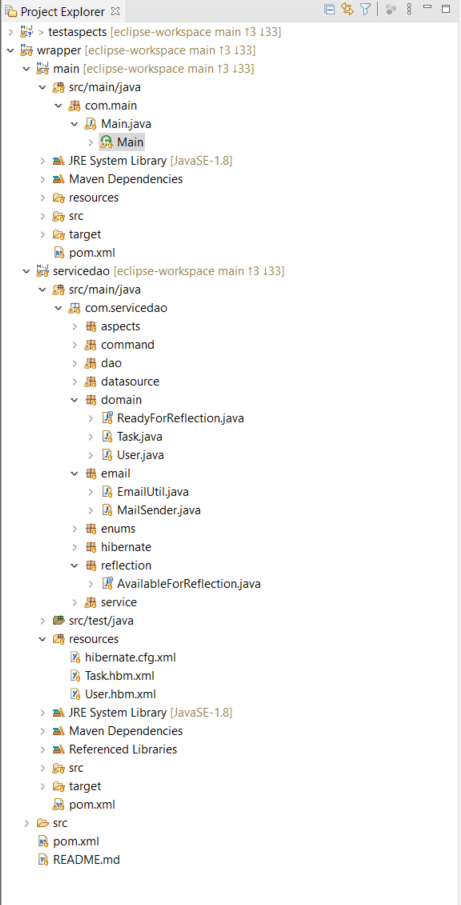
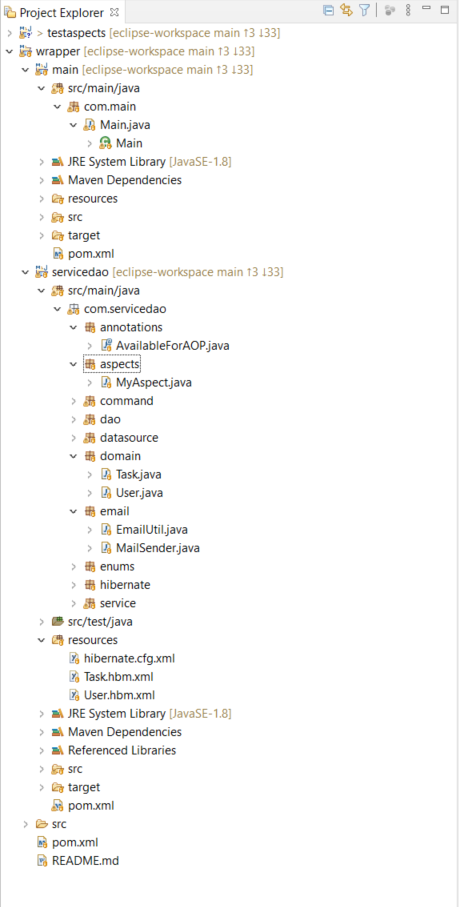
last adjustments...

diff --git a/servicedao/src/main/java/com/servicedao/dao/impl/MySQLUserDAOImpl.java b/servicedao/src/main/java/com/servicedao/dao/impl/MySQLUserDAOImpl.java
@@ -1,22 +1,14 @@
 package com.servicedao.dao.impl;
 
-import java.sql.Connection;
-import java.sql.PreparedStatement;
-import java.sql.ResultSet;
-import java.sql.SQLException;
-import java.sql.Statement;
-import java.util.HashSet;
 import java.util.List;
 import java.util.Set;
 import javax.persistence.Query;
 import org.apache.log4j.Logger;
 import org.hibernate.Session;
 import com.servicedao.dao.UserDAO;
-import com.servicedao.datasource.DataSource;
 import com.servicedao.domain.Task;
 import com.servicedao.domain.User;
 import com.servicedao.hibernate.SessionUtil;
-import com.servicedao.reflection.AvailableForReflection;
 
 public class MySQLUserDAOImpl extends SessionUtil implements UserDAO {
 	

diff --git a/main/src/main/java/com/main/Main.java b/main/src/main/java/com/main/Main.java
@@ -16,7 +16,7 @@ import com.servicedao.service.mysqlservice.MySQLUserService;
 
 public class Main {
 	
-	public static void main(String[] args) throws InstantiationException, IllegalAccessException, NoSuchFieldException, SecurityException, NoSuchMethodException, IllegalArgumentException, InvocationTargetException {
+	public static void main(String[] args) throws InstantiationException, IllegalAccessException, NoSuchFieldException, SecurityException, NoSuchMethodException, InvocationTargetException {
 
         BasicConfigurator.configure();
         

diff --git a/servicedao/src/main/java/com/servicedao/annotations/AvailableForAOP.java b/servicedao/src/main/java/com/servicedao/annotations/AvailableForAOP.java
@@ -1,4 +1,4 @@
-package com.servicedao.reflection;
+package com.servicedao.annotations;
 
 import java.lang.annotation.ElementType;
 import java.lang.annotation.Retention;
@@ -8,6 +8,6 @@ import java.lang.annotation.Target;
 
 @Target({ElementType.TYPE, ElementType.FIELD,ElementType.METHOD})
 @Retention(RetentionPolicy.RUNTIME)
-public @interface AvailableForReflection {
+public @interface AvailableForAOP {
 
 }

diff --git a/servicedao/src/main/java/com/servicedao/dao/impl/MySQLTaskDAOImpl.java b/servicedao/src/main/java/com/servicedao/dao/impl/MySQLTaskDAOImpl.java
@@ -1,12 +1,13 @@
 package com.servicedao.dao.impl;
 
 import java.util.List;
+
 import javax.persistence.Query;
+
 import org.apache.log4j.Logger;
 import org.hibernate.Session;
 import com.servicedao.dao.TaskDAO;
 import com.servicedao.domain.Task;
-import com.servicedao.domain.User;
 import com.servicedao.hibernate.SessionUtil;
 
 public class MySQLTaskDAOImpl extends SessionUtil implements TaskDAO {

diff --git a/servicedao/src/main/java/com/servicedao/email/MailSender.java b/servicedao/src/main/java/com/servicedao/email/MailSender.java
@@ -6,9 +6,9 @@ import javax.mail.Authenticator;
 import javax.mail.PasswordAuthentication;
 import javax.mail.Session;
 
-import com.servicedao.domain.ReadyForReflection;
+import com.servicedao.annotations.AvailableForAOP;
 
-@ReadyForReflection
+@AvailableForAOP
 public class MailSender {
 
 	final String fromEmail = "vizart.md@gmail.com";

diff --git a/servicedao/src/main/java/com/servicedao/domain/Task.java b/servicedao/src/main/java/com/servicedao/domain/Task.java
@@ -2,7 +2,9 @@ package com.servicedao.domain;
 
 import java.util.Objects;
 
-@ReadyForReflection
+import com.servicedao.annotations.AvailableForAOP;
+
+@AvailableForAOP
 public class Task { 
 	
 	private int userId;

diff --git a/servicedao/src/main/java/com/servicedao/domain/User.java b/servicedao/src/main/java/com/servicedao/domain/User.java
@@ -2,7 +2,9 @@ package com.servicedao.domain;
 
 import java.util.Set;
 
-@ReadyForReflection
+import com.servicedao.annotations.AvailableForAOP;
+
+@AvailableForAOP
 public class User {
 	
 	private int userId;
